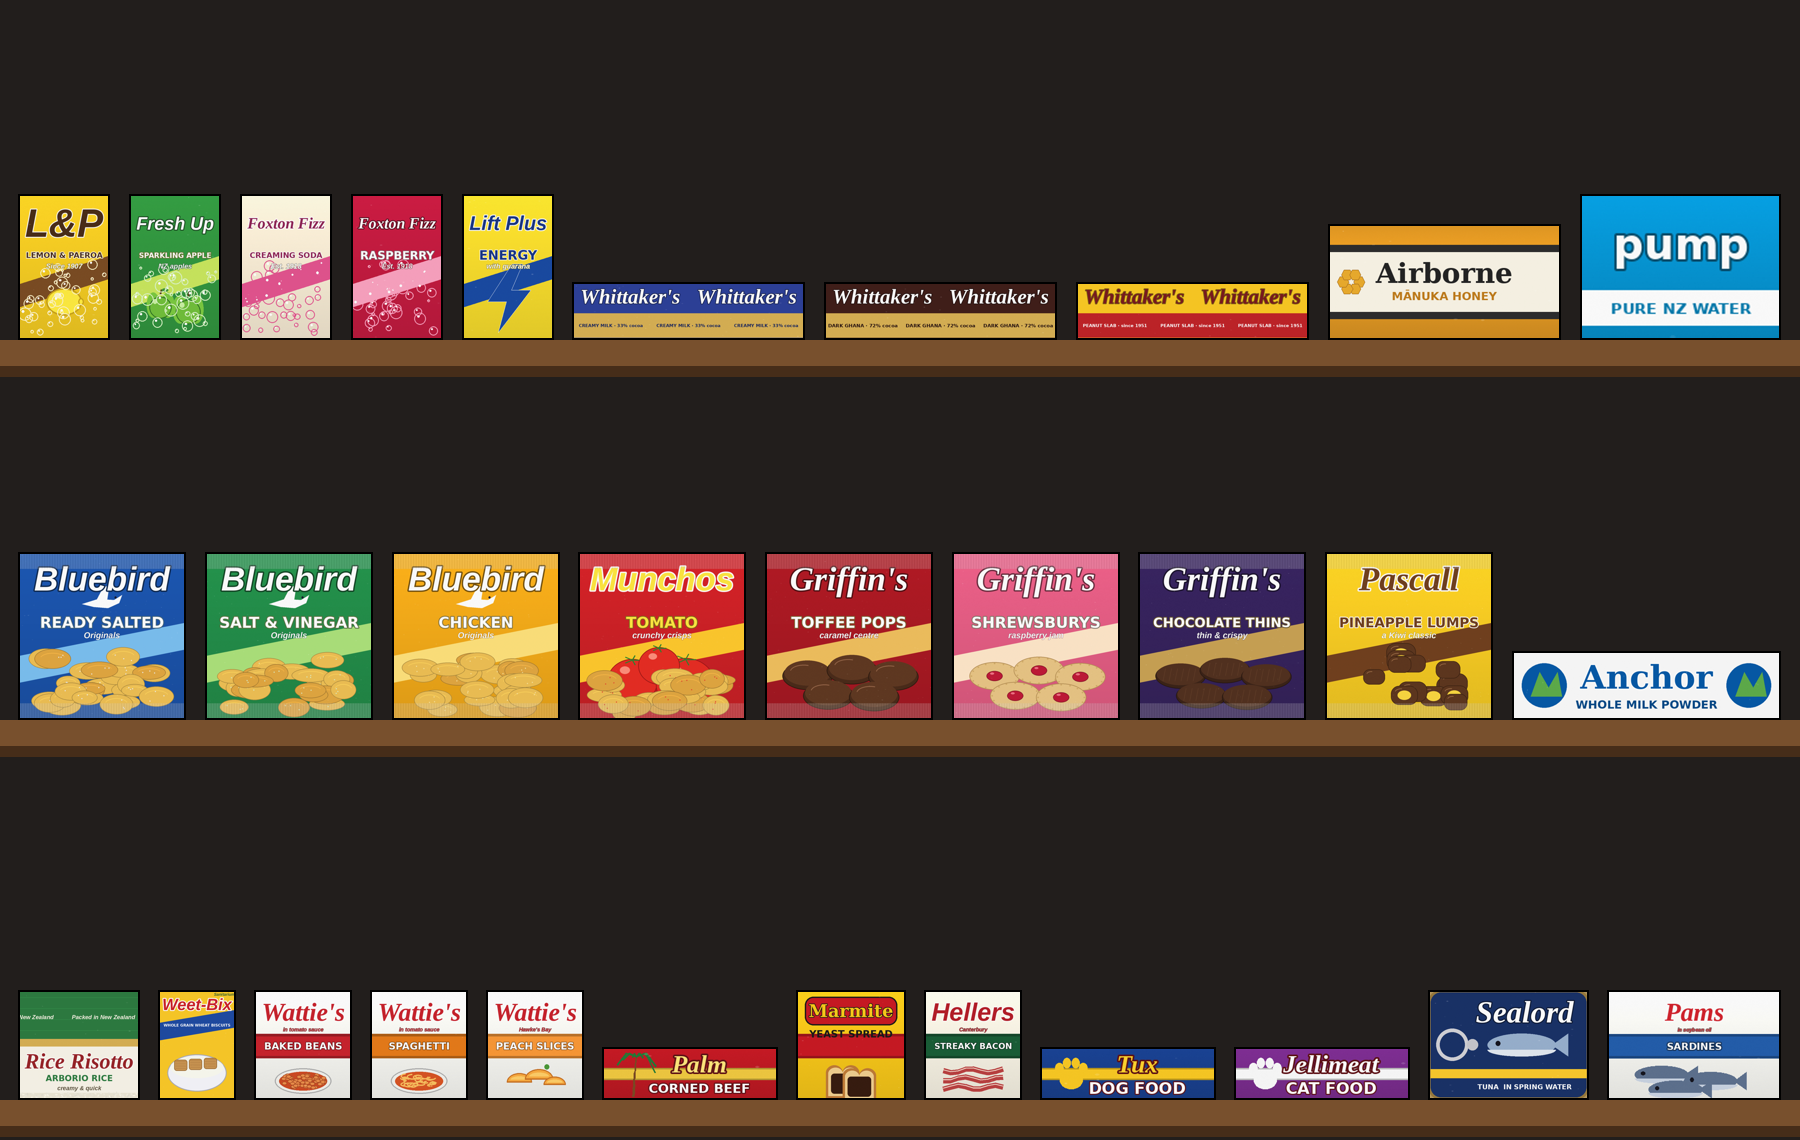
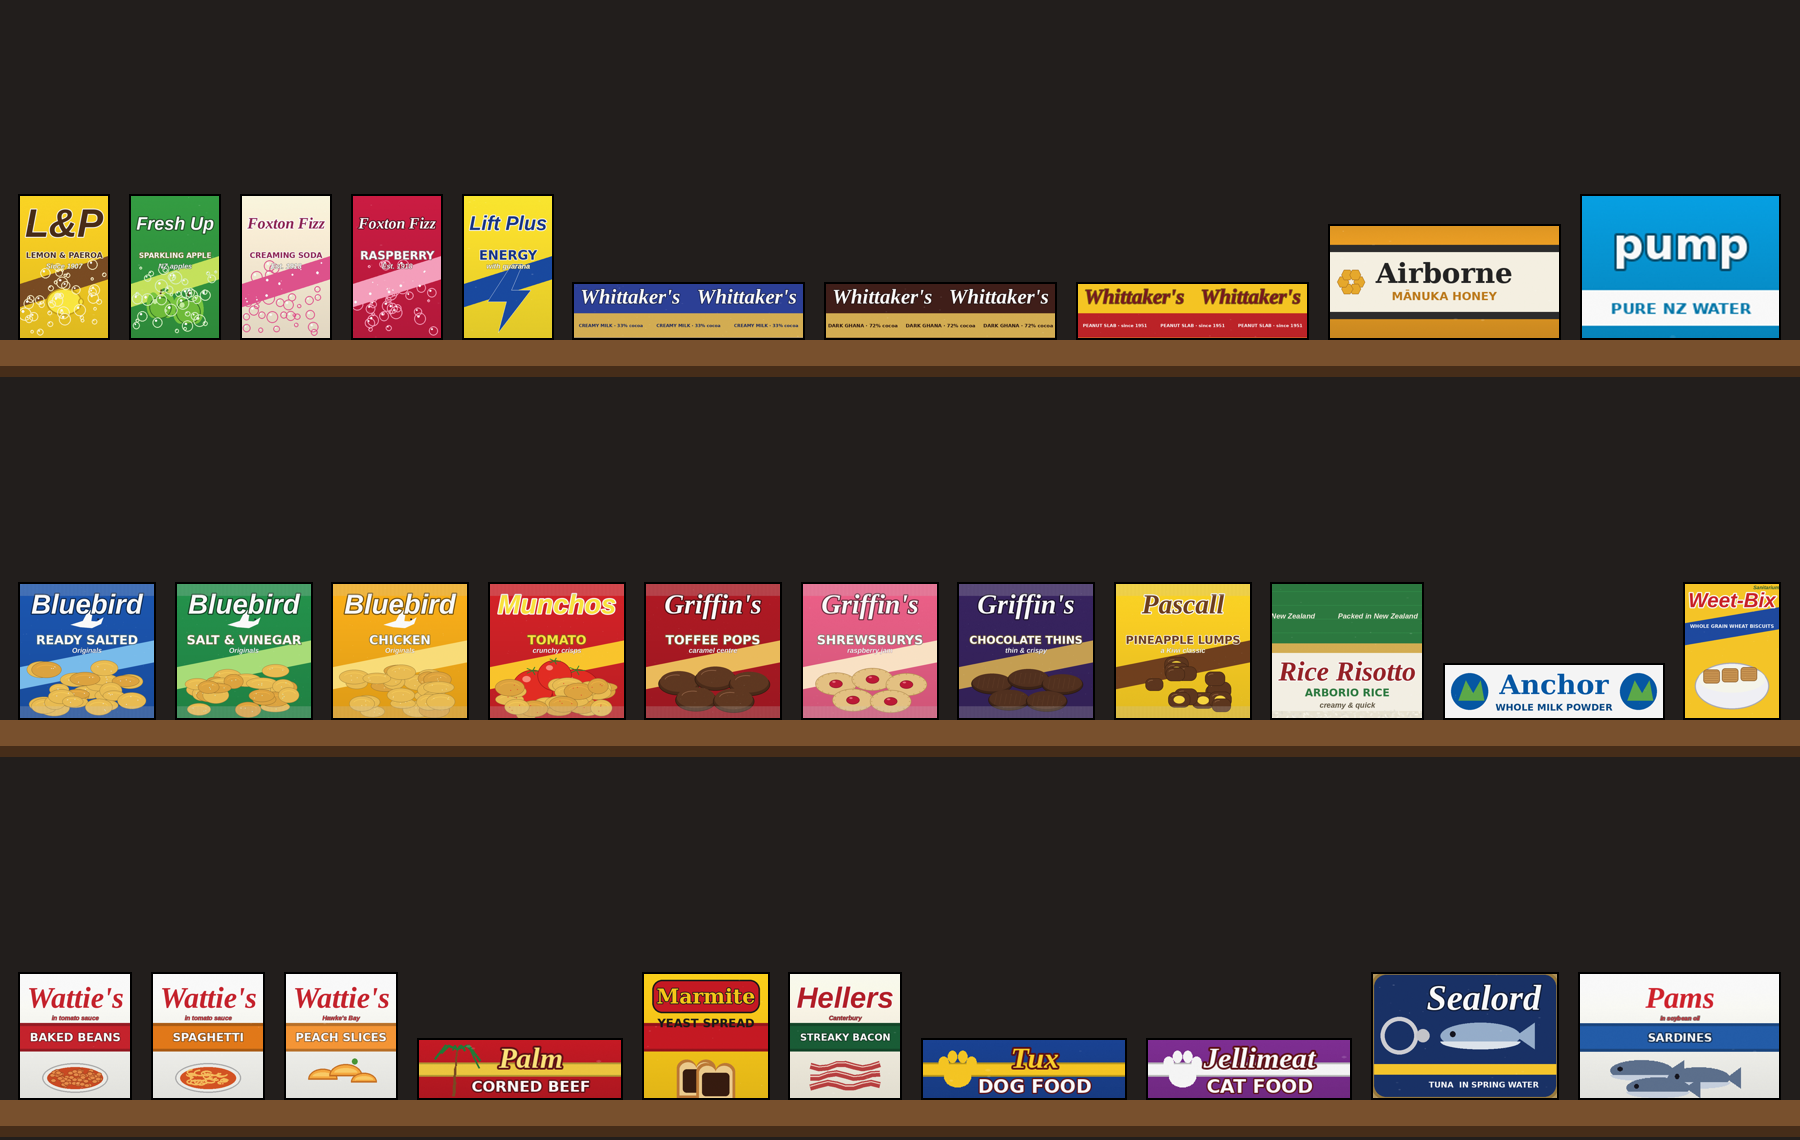
Refresh the Workshop food card, description, change notes and Discord post

Changed region(s): [[0.0, 0.4605, 0.9956, 0.6447], [0.0, 0.8289, 0.9956, 0.9825]]

diff --git a/tools/make_workshop_shots.py b/tools/make_workshop_shots.py
@@ -49,8 +49,8 @@ SHOTS = [
      ["Paper road map with the 1 km grid", "Every town and site with its grid square",
       "Printable player map included", "Designed for Aotearoa"]),
     ("09_food", "nz_food_showcase.png", None, "Kiwi tucker",
-     ["L&P, Fresh Up, Foxton Fizz and Lift Plus", "Bluebird chips, Munchos and Pineapple Lumps",
-      "Toffee Pops, Shrewsburys and Whittaker's", "Wattie's, Sealord, Weet-Bix and Marmite"]),
+     ["L&P, Fresh Up, Foxton Fizz and Pump water", "Bluebird chips, Munchos and Pineapple Lumps",
+      "Toffee Pops, Whittaker's and Airborne honey", "Wattie's, Sealord, Anchor and Marmite"]),
 ]
 
 

diff --git a/tools/nz_food.py b/tools/nz_food.py
@@ -1003,7 +1003,7 @@ FRONTS = {
     "rice": ((0.15, 0.33, 0.65, 0.78), 0), "milk": ((0.56, 0.0, 0.82, 1.0), 90),
     "honey": ((0.0, 0.0, 0.5, 0.25), 0), "bottle": ((0.0, 0.06, 0.333, 0.3), 0),
 }
-SHELVES = [("soda", "bar", "bottle", "honey"), ("bag", "milk"), ("tin", "tin250", "tin100", "tuna", "sardines", "cereal", "rice")]
+SHELVES = [("soda", "bar", "bottle", "honey"), ("bag", "milk", "cereal", "rice"), ("tin", "tin250", "tin100", "tuna", "sardines")]
 
 
 def write_showcase(paths: list[Path]) -> Path:

diff --git a/workshop/discord_post.md b/workshop/discord_post.md
@@ -1,27 +1,17 @@
-## Aotearoa v0.6.3 is out
+## Aotearoa v0.6.5 is out
 
 **Designed by Keybro** · <https://keybrogaming.com>
 
-**Kiwi tucker**
-• L&P, Fresh Up, Foxton Fizz and Lift Plus cans
-• Bluebird Ready Salted, Salt & Vinegar and Chicken, Munchos Tomato and Pineapple Lumps
-• Griffin's Toffee Pops, Shrewsburys and Chocolate Thins
-• Whittaker's Creamy Milk, Dark Ghana and Peanut Slab
-• Wattie's beans, spaghetti and peaches, Sealord Tuna, Pams Sardines, Palm Corned Beef, Weet-Bix and Marmite
-• They replace the vanilla food in the loot, and opened tins keep their label
+**More Kiwi tucker**
+• Anchor Milk Powder, Airborne Mānuka Honey and Pump water bottles
+• Hellers Bacon, plus Tux and Jellimeat for when things get desperate
+• Rice is now Rice Risotto (v0.6.4)
+• 31 NZ food and drink items now replace the vanilla ones in the loot
 
-**New Zealand loot**
-• Hunting rifles, shotguns and .22/.308 ammo on the farms
-• NZDF Steyr AUGs, M4s and FALs at Waiouru, Burnham, Linton and Ōhakea
-• Handguns are rare; police stations have Glocks
-• Mānuka honey, milk powder, gumboots, raincoats, jumpers and beanies
-• Civilian towns top out at tier 3, so Palmerston North and Queenstown no longer spawn military loot in every house
+**Safer updates**
+• Every release is checked before it goes out and backed up afterwards, so servers can roll back to an earlier version if an update causes problems
 
-**Fixed**
-• Town and place names no longer overlap on the player map and the map item
-• New Zealand weapons no longer spawn fully loaded, and ammo boxes no longer spawn full
-
-Download: <https://github.com/KeybroAU/aotearoa-dayz-map/releases/tag/v0.6.3>
+Download: <https://github.com/KeybroAU/aotearoa-dayz-map/releases/tag/v0.6.5>
 Bugs and suggestions go in this Discord.
 
 *The mod may not be repacked or included in server packs without permission.*
